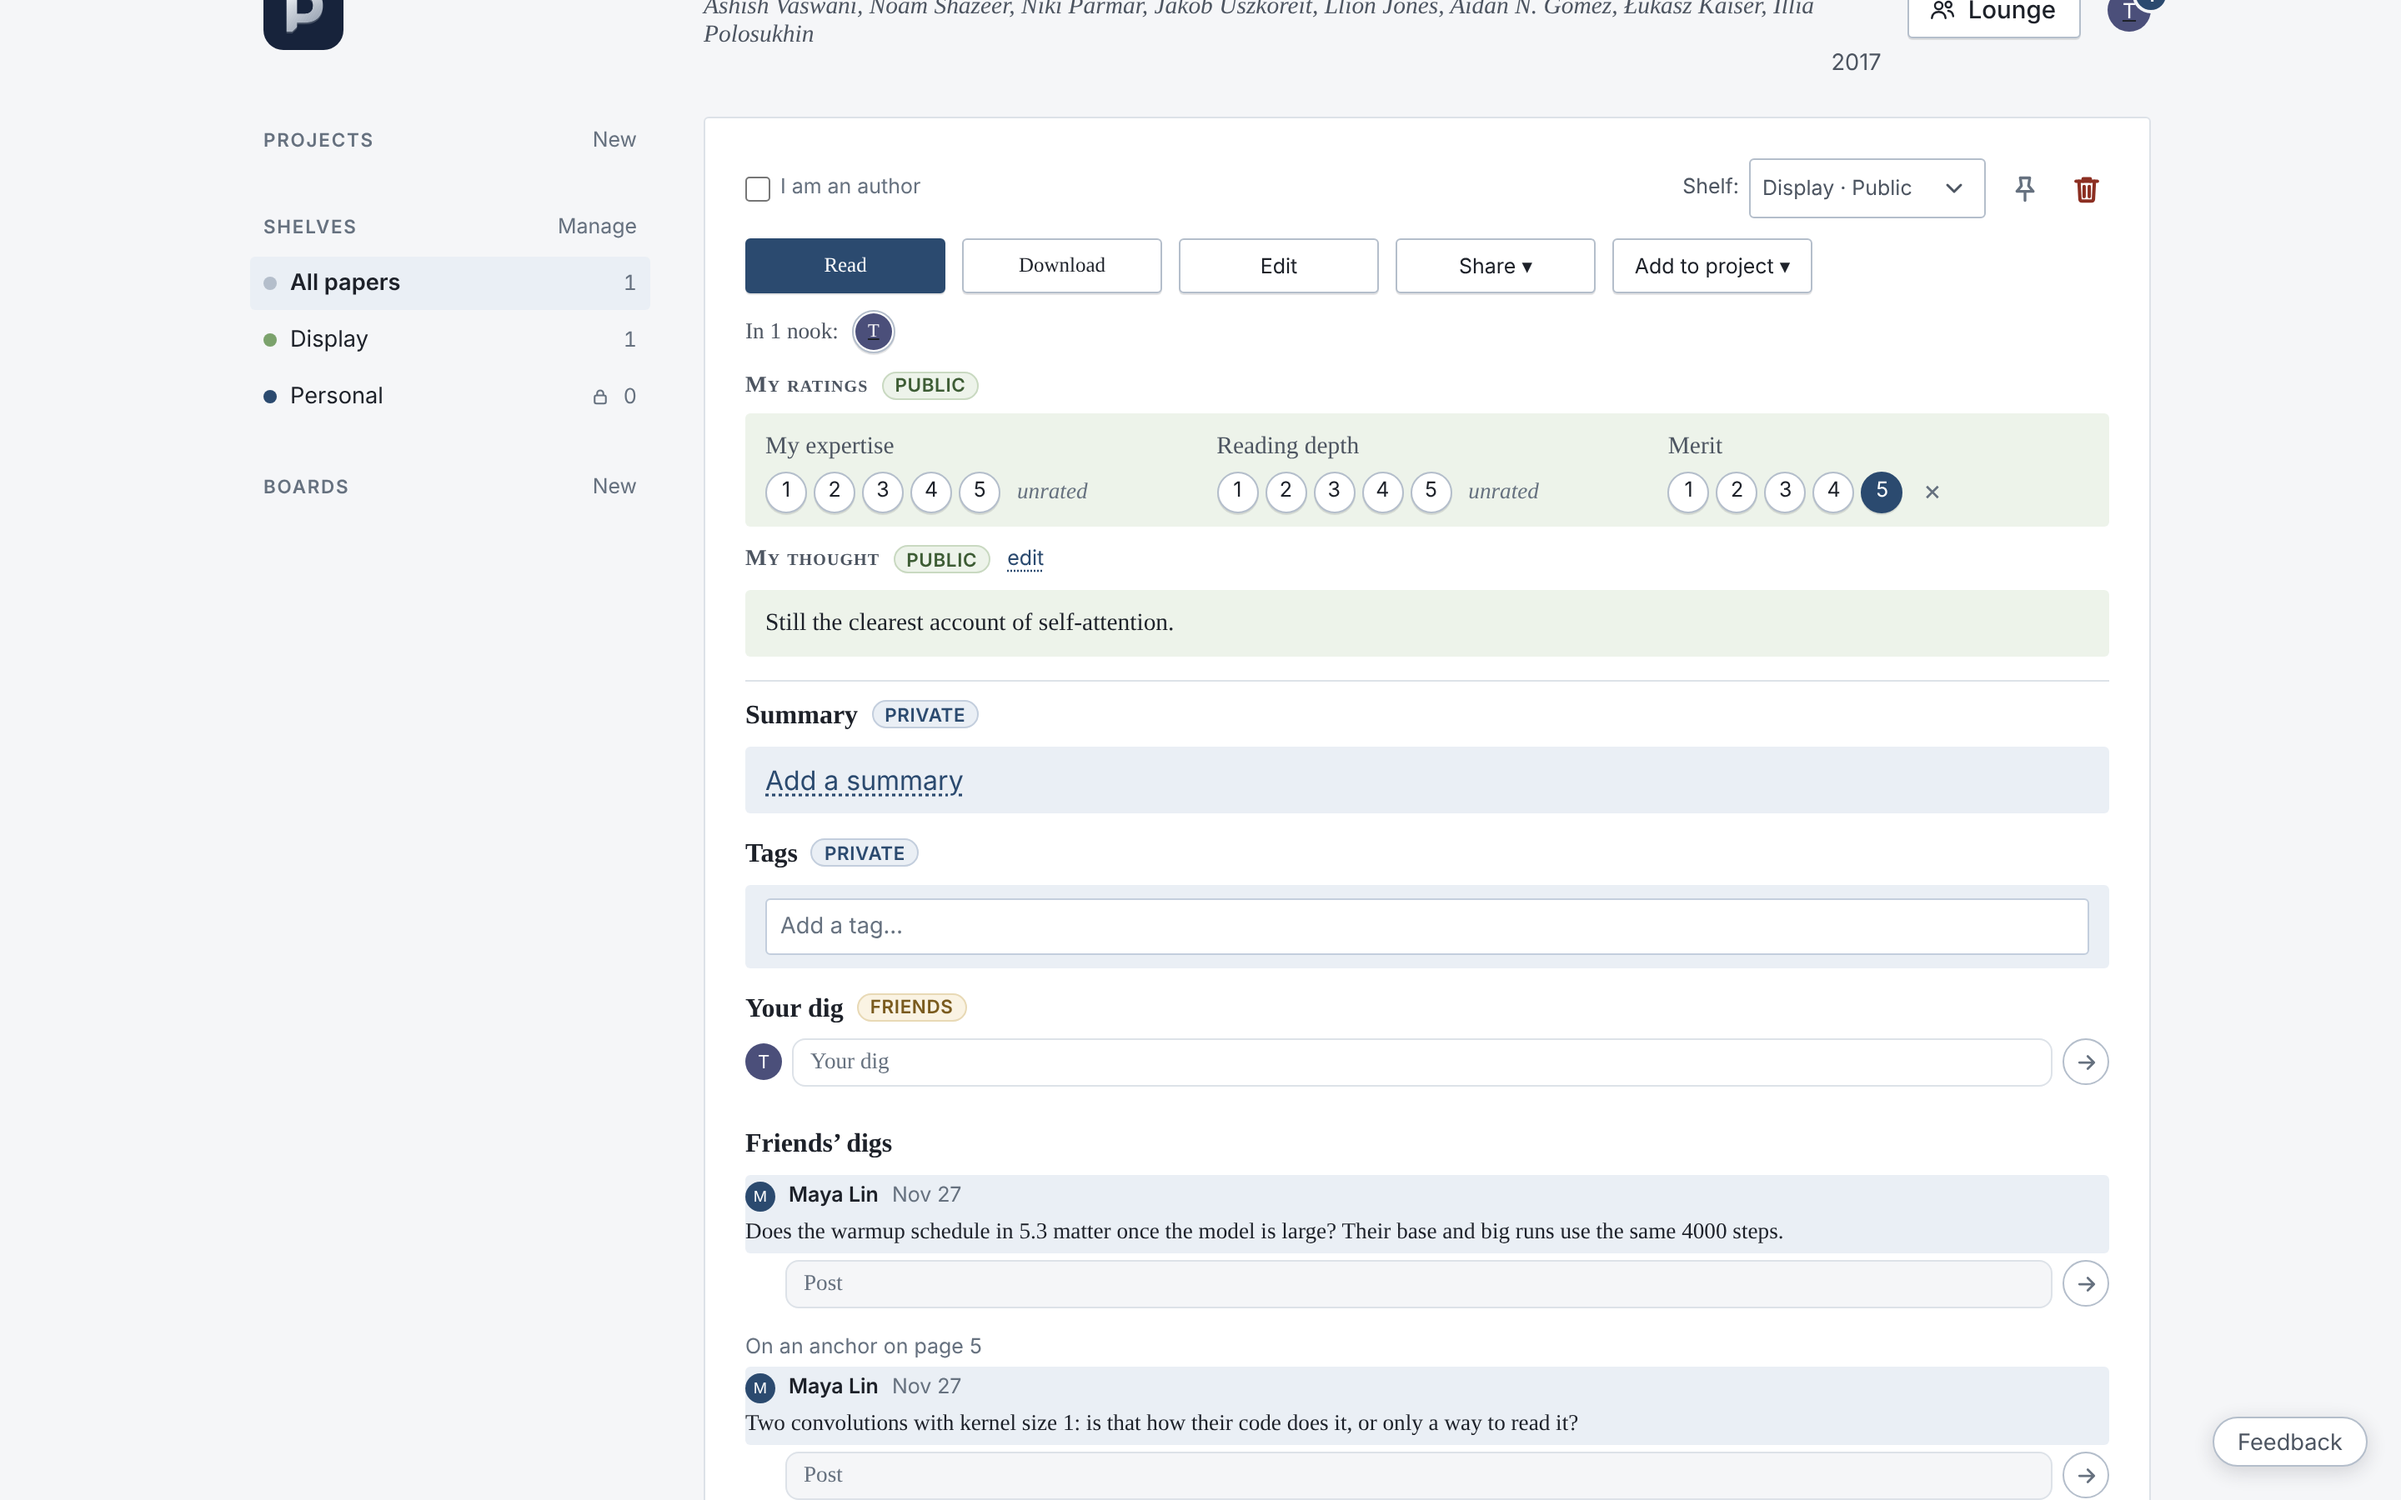
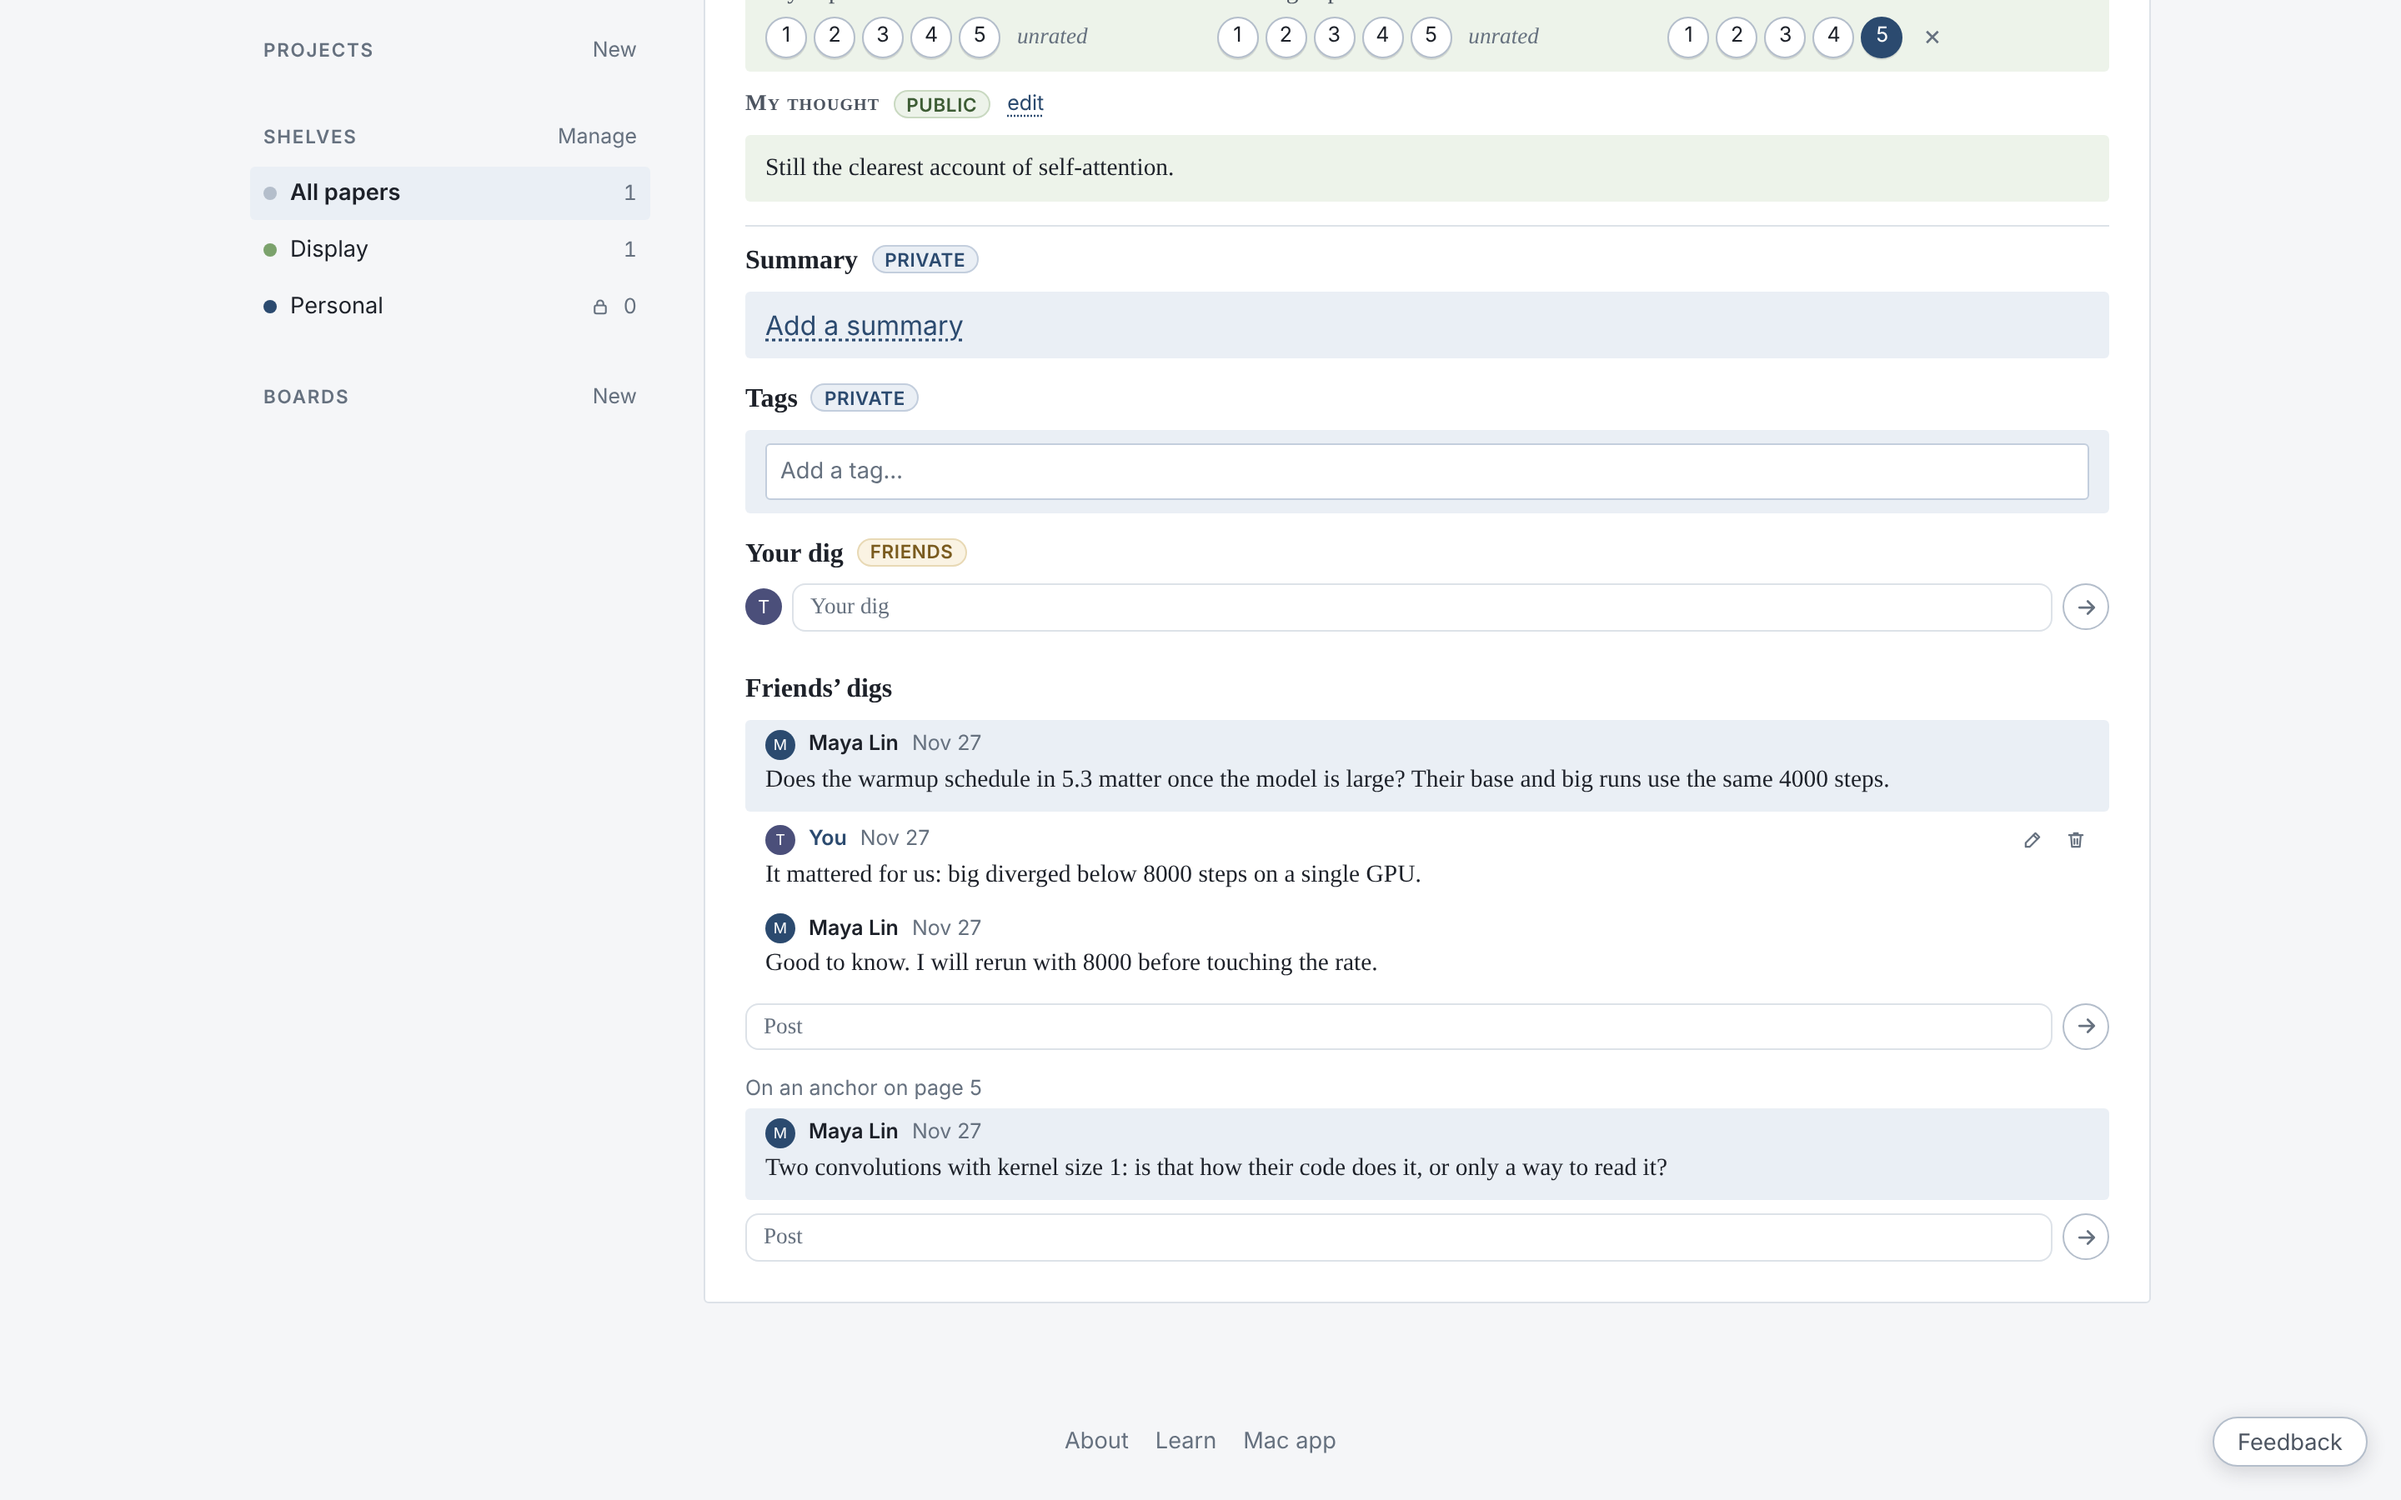
Friends' digs on the jacket: a dig set in from its edge, posts and the box in line
A friend's dig was tinted with its words against the edge of the tint,
and what was posted under it wore the same tint. The dig is now set in
as one's own is, posts under it sit untinted in line with its words, and
the box that posts starts at the same edge.

Claude-Session: https://claude.ai/code/session_01PQZzMS6aJCZGme4NASAkAz

diff --git a/shared/applicationStyles.js b/shared/applicationStyles.js
@@ -6120,6 +6120,14 @@ ${talkStyles}
 .paper-friend-digs > h4 { margin-bottom: var(--space-2); }
 .friend-digs { display: grid; grid-template-columns: minmax(0, 1fr); gap: var(--space-4); margin: 0; padding: 0; list-style: none; }
 .friend-dig-place { margin: 0 0 var(--space-1); color: var(--ink-faint); font: 400 var(--fs-xs) var(--font-ui); }
+/* A friend's dig is one block: the dig tinted and set in from its edge
+   as my own is, what was posted under it in line with its words, and the
+   box that posts at the same edge. */
+.friend-dig .talk-card.is-conversation .talk-post { padding: 6px 12px 8px; }
+.friend-dig .talk-card.is-conversation .talk-post-body { font-size: var(--fs-md); }
+.friend-dig .talk-card.is-conversation .talk-post + .talk-post { margin-top: var(--space-1); padding: 4px 12px 4px 12px; background: none; }
+.friend-dig .talk-card.is-conversation .talk-compose { margin-top: var(--space-2); padding: 0; }
+.friend-dig .talk-card.is-conversation .talk-compose :is(textarea, .md-field) { background: var(--card); }
 @media (max-width: 640px) {
   .room { gap: var(--space-4); }
   .room-row-head { flex-wrap: wrap; gap: var(--space-2) var(--space-3); }
